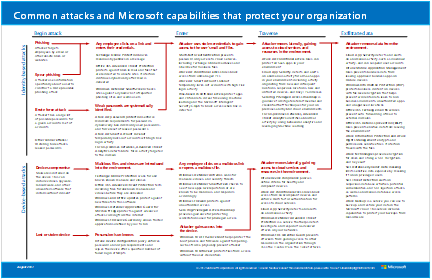
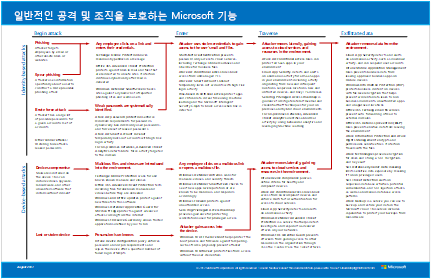
commit translated contents

Changed region(s): [[0.0301, 0.0286, 0.8426, 0.0857]]

diff --git a/Enterprise/TOC.md b/Enterprise/TOC.md
@@ -12,77 +12,90 @@
 ### [Microsoft SaaS (Office 365)에 대한 하이브리드 클라우드 시나리오](hybrid-cloud-scenarios-for-microsoft-saas-office-365.md)
 ### [Azure PaaS에 대한 하이브리드 클라우드 시나리오](hybrid-cloud-scenarios-for-azure-paas.md)
 ### [Azure IaaS에 대한 하이브리드 클라우드 시나리오](hybrid-cloud-scenarios-for-azure-iaas.md)
-## [Microsoft 클라우드 제품용 구독, 라이선스, 계정 및 테넌트](subscriptions-licenses-accounts-and-tenants-for-microsoft-cloud-offerings.md)
 ## [Exchange, SharePoint, 비즈니스용 Skype 및 Lync에 대한 아키텍처 모델](architectural-models-for-sharepoint-exchange-skype-for-business-and-lync.md)
 
 # [Office 365 계획](get-your-organization-ready-for-office-365.md)
-## [구독, 라이선스 및 테넌트](subscriptions-licenses-accounts-and-tenants-for-microsoft-cloud-offerings.md)
-### [디렉터리 동기화 계획](plan-for-directory-synchronization.md)
-### [Office 365 서비스에 연결되는 네트워크 장치 계획](plan-for-network-devices.md)
+
+## Office 365 테넌트
+### [구독, 라이선스 및 테넌트](subscriptions-licenses-accounts-and-tenants-for-microsoft-cloud-offerings.md)
+
+### 네트워크 계획
+#### [Office 365에 대한 네트워크 연결](network-connectivity.md)
+#### [Office 365 서비스에 연결되는 네트워크 장치 계획](plan-for-network-devices.md)
+#### [Office 365의 네트워크 및 마이그레이션 계획](network-and-migration-planning.md)
+
+### ID 계획D
+#### [Id 모델](about-office-365-identity.md)
+#### [하이브리드 ID](plan-for-directory-synchronization.md)
+
 ### [Office 365용 타사 SSL 인증서 계획](plan-for-third-party-ssl-certificates.md)
-### [Office 365 ID 및 Azure Active Directory 이해](about-office-365-identity.md)
-### 
-  [MDM과 Intune 중에서 선택](https://docs.microsoft.com/ko-KR/office365/securitycompliance/choose-between-mdm-and-intune)
-### [Office 365의 네트워크 및 마이그레이션 계획](network-and-migration-planning.md)
-### [Office 365에 대한 네트워크 연결](network-connectivity.md)
 ### [Office 365 서비스 배포 관리자](deployment-advisors-for-office-365.md)
-### [Office 365 관리자를 위한 통합된 앱 및 Azure AD](integrated-apps-and-azure-ads.md)
-## [Office 365 통합](office-365-integration.md)
-### [Office 365와 Azure 통합](azure-integration.md)
-### [Office 365용 Azure ExpressRoute](azure-expressroute.md)
-### [최신 인증이 Office 2013 및 Office 2016 클라이언트 앱에 작동하는 방식](modern-auth-for-office-2013-and-2016.md)
-### [Office 365 테넌트 간 공동 작업](office-365-inter-tenant-collaboration.md)
+### [통합 앱 및 Azure AD](integrated-apps-and-azure-ads.md)
+
+### Office 365 통합
+#### [온-프레미스와 통합](office-365-integration.md)
+#### [Azure 통합](azure-integration.md)
+#### [Azure ExpressRoute](azure-expressroute.md)
+#### [최신 인증이 Office 2013 및 Office 2016 클라이언트 앱에 작동하는 방식](modern-auth-for-office-2013-and-2016.md)
+#### [테넌트 간 공동 작업](office-365-inter-tenant-collaboration.md)
+
 ## Office 365 클라이언트 지원
 ### [인증서 기반 인증](office-365-client-support-certificate-based-authentication.md)
 ### [조건부 액세스](office-365-client-support-conditional-access.md)
+### [MDM과 Intune 중에서 선택](https://docs.microsoft.com/ko-KR/office365/securitycompliance/choose-between-mdm-and-intune)
 ### [모바일 응용 프로그램 관리](office-365-client-support-mobile-application-management.md)
 ### [최신 인증](office-365-client-support-modern-authentication.md)
 ### [Single Sign-On](office-365-client-support-single-sign-on.md)
-## 하이브리드 옵션
-### [하이브리드 최신 인증과 비즈니스용 Skype 서버 및 Exchange Server에 대한 필수 구성 요소](hybrid-modern-auth-overview.md)
-### [하이브리드 최신 인증을 사용하도록 Exchange Server 온-프레미스를 구성하는 방법](configure-exchange-server-for-hybrid-modern-authentication.md)
-### [하이브리드 최신 인증을 사용하도록 비즈니스용 Skype 온-프레미스를 구성하는 방법](https://docs.microsoft.com/skypeforbusiness/manage/authentication/use-adal)
-### [비즈니스용 Skype 및 Exchange에서 하이브리드 최신 인증 제거 또는 사용 안 함](remove-or-disable-hybrid-modern-authentication-from-skype-for-business-and-excha.md)
-## [Office 업그레이드](plan-upgrade-previous-versions-office.md)
-### [Office 2010](upgrade-from-office-2010-servers-and-products.md)
-#### [Office 2010 데스크톱](https://docs.microsoft.com/DeployOffice/office-2010-end-support-roadmap)
-#### [Exchange 2010](exchange-2010-end-of-support.md)
-#### [SharePoint 2010](upgrade-from-sharepoint-2010.md)
-#### [Lync Server 2010](https://docs.microsoft.com/skypeforbusiness/plan-your-deployment/upgrade)
-#### [Project Server 2010](project-server-2010-end-of-support.md)
-### [Office 2007](upgrade-from-office-2007-servers-and-products.md)
+
+## 하이브리드 최신 인증
+### [비즈니스용 Skype Server 및 Exchange Server의 필수 구성 요소](hybrid-modern-auth-overview.md)
+### [Exchange 구성](configure-exchange-server-for-hybrid-modern-authentication.md)
+### [비즈니스용 Skype Online 구성](https://docs.microsoft.com/skypeforbusiness/manage/authentication/use-adal)
+### [비즈니스용 및 Exchange Skype를 제거하거나 사용 중지](remove-or-disable-hybrid-modern-authentication-from-skype-for-business-and-excha.md)
+
+## Office 클라이언트 및 서버
+### [업그레이드 계획](plan-upgrade-previous-versions-office.md)
+### Office 2007
+#### [Office 2007 서버 및 클라이언트에서 업그레이드](upgrade-from-office-2007-servers-and-products.md)
 #### [Office 2007 데스크톱](https://docs.microsoft.com/DeployOffice/office-2007-end-support-roadmap)
 #### [Exchange 2007](exchange-2007-end-of-support.md)
 #### [SharePoint 2007](sharepoint-2007-end-of-support.md)
 #### [Office Communications Server](https://docs.microsoft.com/skypeforbusiness/plan-your-deployment/upgrade)
 #### [PerformancePoint Server 2007](pps-2007-end-of-support.md)
 #### [Project Server 2007](project-server-2007-end-of-support.md)
+### Office 2010
+#### [Office 2010 서버 및 클라이언트에서 업그레이드](upgrade-from-office-2010-servers-and-products.md)
+#### [Office 2010 데스크톱](https://docs.microsoft.com/DeployOffice/office-2010-end-support-roadmap)
+#### [Exchange 2010](exchange-2010-end-of-support.md)
+#### [SharePoint 2010](upgrade-from-sharepoint-2010.md)
+#### [Lync Server 2010](https://docs.microsoft.com/skypeforbusiness/plan-your-deployment/upgrade)
+#### [Project Server 2010](project-server-2010-end-of-support.md)
 
-# [Office 365 테스트](cloud-adoption-test-lab-guides-tlgs.md)
+# Office 365 테스트
+## [클라우드 채택 테스트 랩 가이드](cloud-adoption-test-lab-guides-tlgs.md)
 ## [기본 구성 개발/테스트 환경](base-configuration-dev-test-environment.md)
 ## [Office 365 개발/테스트 환경](office-365-dev-test-environment.md)
 ### [디렉터리 동기화](dirsync-for-your-office-365-dev-test-environment.md)
 ### [다단계 인증](multi-factor-authentication-for-your-office-365-dev-test-environment.md)
 ### [페더레이션 ID](federated-identity-for-your-office-365-dev-test-environment.md)
-### [Cloud App Security](cloud-app-security-for-your-office-365-dev-test-environment.md)
 ### [Advanced Threat Protection](advanced-threat-protection-for-your-office-365-dev-test-environment.md)
 ### [고급 eDiscovery](advanced-ediscovery-for-your-office-365-dev-test-environment.md)
 ### [중요한 파일 보호](sensitive-file-protection-in-the-office-365-dev-test-environment.md)
 ### [데이터 분류 및 레이블](data-classification-and-labeling-in-the-office-365-dev-test-environment.md)
 ## [시뮬레이트된 Azure의 크로스-프레미스 가상 네트워크](simulated-cross-premises-virtual-network-in-azure.md)
 
-# Office 365 배포
-## [FastTrack](https://www.microsoft.com/fasttrack/microsoft-365/office-365)
-## [조직을 위해 Office 365 Enterprise 배포](setup-overview-for-enterprises.md)
-### [Office 365 배포 계획 검사 목록](deployment-planning-checklist.md)
-### [Office 365에 대한 보안 모범 사례](https://docs.microsoft.com/office365/securitycompliance/security-best-practices)
-## [네트워크 설정](set-up-network-for-office-365.md)
+# [Office 365 Enterprise 배포](setup-overview-for-enterprises.md)
+
+## 1. 네트워크 설정
+### [엔터프라이즈 네트워크 설정](set-up-network-for-office-365.md)
+### [도메인](https://support.office.com/article/6383f56d-3d09-4dcb-9b41-b5f5a5efd611)
 ### [Office 365 네트워킹 연결 개요](office-365-networking-overview.md)
 ### [Office 365 네트워크 연결 원칙](office-365-network-connectivity-principles.md)
 ### [Office 365의 네트워크 계획 및 성능 조정](network-planning-and-performance.md)
 ### [Office 365에 대한 네트워크 연결](network-connectivity.md)
 ### [Office 365 네트워킹 파트너 프로그램](office-365-networking-partner-program.md)
-### [Office 365 IP 주소 및 URL](office-365-endpoints.md)
+### Office 365 IP 주소 및 URL
+#### [Office 365 엔드포인트](office-365-endpoints.md)
 #### [Office 365 끝점 관리](managing-office-365-endpoints.md)
 #### [전 세계 끝점](urls-and-ip-address-ranges.md)
 #### [미국 정부 DoD 끝점](office-365-u-s-government-dod-endpoints.md)
@@ -96,106 +109,130 @@
 ### [Office 365 서비스의 IPv6 지원](ipv6-support.md)
 ### [NAT 지원(Office 365)](nat-support-with-office-365.md)
 ### Office 365용 ExpressRoute를 사용한 작업
-#### [Office 365용 Azure ExpressRoute](azure-expressroute.md)
+#### [Office 365용 ExpressRoute](azure-expressroute.md)
 #### [Office 365용 ExpressRoute 구현](implementing-expressroute.md)
 #### [Office 365용 ExpressRoute를 사용한 네트워크 계획](network-planning-with-expressroute.md)
 #### [Office 365용 ExpressRoute를 사용한 라우팅](routing-with-expressroute.md)
-## 구독 설정
-### [디렉터리 동기화를 통해 사용자를 Office 365에 프로비전하기 위한 준비](prepare-for-directory-synchronization.md)
-### [IdFix 도구를 사용하여 Office 365와의 동기화를 위한 디렉터리 특성 준비](prepare-directory-attributes-for-synch-with-idfix.md)
-### [IdFix 도구 설치 및 실행](install-and-run-idfix.md)
-### [IdFix 제외 및 지원 개체/특성](idfix-excluded-and-supported-objects-and-attributes.md)
-### [IdFix 트랜잭션 로그](idfix-transaction-log.md)
-### [Office 365의 디렉터리 동기화 설정](set-up-directory-synchronization.md)
-### [Office 365 전역 관리자 계정 보호](protect-your-global-administrator-accounts.md)
-### [Office 365 관리 센터에서 Azure 권한 관리 활성화](activate-rms-in-office-365.md)
-### [도메인](https://support.office.com/article/6383f56d-3d09-4dcb-9b41-b5f5a5efd611)
-### [Office 365에서 릴리스 옵션 구성](https://support.office.com/article/365-3b3adfa4-1777-4ff0-b606-fb8732101f47)
-## [Office 365 Enterprise 서비스 및 응용 프로그램 구성](configure-services-and-applications.md)
+
+## 2. ID 설정
+### [전역 관리자 계정 보호](protect-your-global-administrator-accounts.md)
+### [클라우드 전용 ID](cloud-only-identities.md)
+### 하이브리드 ID
+#### [디렉터리 동기화 준비](prepare-for-directory-synchronization.md)
+#### IdFix 도구 실행
+##### [IdFix 도구로 디렉터리 특성 준비](prepare-directory-attributes-for-synch-with-idfix.md)
+##### [IdFix 도구 설치 및 실행](install-and-run-idfix.md)
+##### [IdFix 제외 및 지원 개체/특성](idfix-excluded-and-supported-objects-and-attributes.md)
+##### [IdFix 트랜잭션 로그](idfix-transaction-log.md)
+#### [디렉터리 동기화 설정](set-up-directory-synchronization.md)
+### [사용자 계정에 라이선스 할당](assign-licenses-to-user-accounts.md)
+
+## [3. 보안 기능 구현](https://docs.microsoft.com/office365/securitycompliance/security-best-practices)
+
+## 4. 클라이언트 소프트웨어 배포
+### [Office 365 ProPlus 배포](https://docs.microsoft.com/DeployOffice/deployment-guide-for-office-365-proplus)
+### [비즈니스용 Skype 클라이언트 배포](https://docs.microsoft.com/skypeforbusiness/set-up-skype-for-business-online/deploy-the-skype-for-business-client-in-office-365)
+### [모바일 앱 배포 및 관리](https://support.office.com/article/d35db652-629d-4087-8dc0-1e0ed922307c)
+
+## [5. 모바일 장치 관리 설정](https://support.office.com/article/set-up-mobile-device-management-mdm-in-office-365-dd892318-bc44-4eb1-af00-9db5430be3cd)
+
+## 6. 서비스 및 응용 프로그램 구성
+### [준비하기](configure-services-and-applications.md)
 ### [Office 365로 데이터 마이그레이션](migrate-data-to-office-365.md)
 ### [Exchange Online](https://docs.microsoft.com/Exchange/exchange-online)
 ### [SharePoint Online](https://docs.microsoft.com/sharepoint/sharepoint-online)
 ### [비즈니스용 Skype](https://docs.microsoft.com/SkypeForBusiness/skype-for-business-online)
 ### [Microsoft Teams](https://docs.microsoft.com/MicrosoftTeams/Teams-overview)
 ### [Yammer](https://support.office.com/article/e1464355-1f97-49ac-b2aa-dd320b179dbe)
-## [Intune을 사용하는 장치 관리 구성](https://docs.microsoft.com/intune/setup-steps)
-## 응용 프로그램 배포
-### [Office 365 ProPlus 배포](https://docs.microsoft.com/DeployOffice/deployment-guide-for-office-365-proplus)
-### [비즈니스용 Skype 클라이언트 배포](https://docs.microsoft.com/skypeforbusiness/set-up-skype-for-business-online/deploy-the-skype-for-business-client-in-office-365)
-### [모바일 앱 배포 및 관리](https://support.office.com/article/d35db652-629d-4087-8dc0-1e0ed922307c)
-## [사용자 교육](https://support.office.com/article/396b8d9e-e118-42d0-8a0d-87d1f2f055fb)
+### [Azure 권한 관리](activate-rms-in-office-365.md)
+### [릴리스 옵션 구성](https://support.office.com/article/365-3b3adfa4-1777-4ff0-b606-fb8732101f47)
 
-## [Office 365 Multi-Geo](office-365-multi-geo.md)
-### [OneDrive 및 SharePoint Multi-Geo](multi-geo-capabilities-in-onedrive-and-sharepoint-online-in-office-365.md)
-### [Exchange Multi-Geo](multi-geo-capabilities-in-exchange-online.md)
-### [Multi-Geo 플랜](plan-for-multi-geo.md)
-#### [관리 환경](administering-a-multi-geo-environment.md)
-#### [Multi-Geo 환경의 사용자 작업 환경](multi-geo-user-experience.md)
-### [Multi-Geo 구성](multi-geo-tenant-configuration.md)
-#### [기본 설정 데이터 위치 구성](/azure/active-directory/hybrid/how-to-connect-sync-feature-preferreddatalocation?toc=/Office365/Enterprise/toc.json&bc=/office365/enterprise/breadcrumb/toc.json)
-#### [검색 구성](configure-search-for-multi-geo.md)
-### Multi-Geo 환경 관리
-#### [SharePoint 할당량 관리](sharepoint-multi-geo-storage-quota.md)
-#### [OneDrive 사이트 이동](move-onedrive-between-geo-locations.md)
-#### [SharePoint 사이트 이동](move-sharepoint-between-geo-locations.md).
-#### [지역 관리자 추가 또는 제거](add-a-sharepoint-geo-admin.md)
-#### [지리적 위치로 콘텐츠 제한](restrict-content-to-geo-location.md)
-#### [Office 365 Multi-Geo eDiscovery 구성](multi-geo-ediscovery-configuration.md)
-#### [특정 PDL로 그룹 만들기](multi-geo-add-group-with-pdl.md)
-#### [지리적 위치 삭제](delete-a-geo-location.md)
-#### [위성 지리적 위치에서 SharePoint Multi-Geo 사용](enabling-SP-multigeo-satellite-geolocation.md)
-#### [Exchange Multi-Geo 관리](administering-exchange-online-multi-geo.md)
+## [7. 사용자 교육](https://docs.microsoft.com/office365/admin/admin-overview/get-started-with-office-365#training-resources-for-your-users)
 
-## [새 Office 365 데이터 센터 지역으로 이동](moving-data-to-new-datacenter-geos.md)
-### [데이터 이동을 요청하는 방법](request-your-data-move.md)
-### [데이터 이동 도중 및 이후](during-and-after-your-data-move.md)
-### [데이터 이동 일반 FAQ](data-move-faq.md)
-## 하이브리드 솔루션
-### [Azure Active Directory를 사용하여 SharePoint Server 2016 인증](using-azure-ad-for-sharepoint-server-authentication.md)
-### [Microsoft Azure에서 Office 365 디렉터리 동기화 배포](deploy-office-365-directory-synchronization-dirsync-in-microsoft-azure.md)
-### [온-프레미스 네트워크를 Microsoft Azure Virtual Network에 연결](connect-an-on-premises-network-to-a-microsoft-azure-virtual-network.md)
-### [Azure에서 Office 365용 고가용성 페더레이션 인증 배포](deploy-high-availability-federated-authentication-for-office-365-in-azure.md)
-#### [고가용성 페더레이션 인증 1단계: Azure 구성](high-availability-federated-authentication-phase-1-configure-azure.md)
-#### [고가용성 페더레이션 인증 2단계: 도메인 컨트롤러 구성](high-availability-federated-authentication-phase-2-configure-domain-controllers.md)
-#### [고가용성 페더레이션 인증 3단계: AD FS 서버 구성](high-availability-federated-authentication-phase-3-configure-ad-fs-servers.md)
-#### [고가용성 페더레이션 인증 4단계: 웹 응용 프로그램 프록시 구성](high-availability-federated-authentication-phase-4-configure-web-application-pro.md)
-#### [고가용성 페더레이션 인증 5단계: Office 365에 대해 페더레이션 인증 구성](high-availability-federated-authentication-phase-5-configure-federated-authentic.md)
+## 고급 배포
+
+### [Office 365 Multi-Geo](office-365-multi-geo.md)
+#### [OneDrive 및 SharePoint Multi-Geo](multi-geo-capabilities-in-onedrive-and-sharepoint-online-in-office-365.md)
+#### [Exchange Multi-Geo](multi-geo-capabilities-in-exchange-online.md)
+#### [Multi-Geo 플랜](plan-for-multi-geo.md)
+##### [관리 환경](administering-a-multi-geo-environment.md)
+##### [Multi-Geo 환경의 사용자 작업 환경](multi-geo-user-experience.md)
+#### [Multi-Geo 구성](multi-geo-tenant-configuration.md)
+##### [기본 설정 데이터 위치 구성](/azure/active-directory/hybrid/how-to-connect-sync-feature-preferreddatalocation?toc=/Office365/Enterprise/toc.json&bc=/office365/enterprise/breadcrumb/toc.json)
+##### [검색 구성](configure-search-for-multi-geo.md)
+#### Multi-Geo 환경 관리
+##### [SharePoint 할당량 관리](sharepoint-multi-geo-storage-quota.md)
+##### [OneDrive 사이트 이동](move-onedrive-between-geo-locations.md)
+##### [SharePoint 사이트 이동](move-sharepoint-between-geo-locations.md).
+##### [지역 관리자 추가 또는 제거](add-a-sharepoint-geo-admin.md)
+##### [지리적 위치로 콘텐츠 제한](restrict-content-to-geo-location.md)
+##### [Office 365 Multi-Geo eDiscovery 구성](multi-geo-ediscovery-configuration.md)
+##### [특정 PDL로 그룹 만들기](multi-geo-add-group-with-pdl.md)
+##### [지리적 위치 삭제](delete-a-geo-location.md)
+##### [위성 지리적 위치에서 SharePoint Multi-Geo 사용](enabling-SP-multigeo-satellite-geolocation.md)
+##### [Exchange Multi-Geo 관리](administering-exchange-online-multi-geo.md)
+
+#### [새 Office 365 데이터 센터 지역으로 이동](moving-data-to-new-datacenter-geos.md)
+##### [데이터 이동을 요청하는 방법](request-your-data-move.md)
+##### [데이터 이동 도중 및 이후](during-and-after-your-data-move.md)
+##### [데이터 이동 일반 FAQ](data-move-faq.md)
+
+### 하이브리드 솔루션
+#### [Azure Active Directory를 사용하여 SharePoint Server 2016 인증](using-azure-ad-for-sharepoint-server-authentication.md)
+#### [온-프레미스 네트워크를 Azure Virtual Network에 연결](connect-an-on-premises-network-to-a-microsoft-azure-virtual-network.md)
+#### [Azure IaaS에서 디렉터리 비동기화 서버 배포](deploy-office-365-directory-synchronization-dirsync-in-microsoft-azure.md)
+#### [Azure에서 Office 365용 고가용성 페더레이션 인증 배포](deploy-high-availability-federated-authentication-for-office-365-in-azure.md)
+##### [고가용성 페더레이션 인증 1단계: Azure 구성](high-availability-federated-authentication-phase-1-configure-azure.md)
+##### [고가용성 페더레이션 인증 2단계: 도메인 컨트롤러 구성](high-availability-federated-authentication-phase-2-configure-domain-controllers.md)
+##### [고가용성 페더레이션 인증 3단계: AD FS 서버 구성](high-availability-federated-authentication-phase-3-configure-ad-fs-servers.md)
+##### [고가용성 페더레이션 인증 4단계: 웹 응용 프로그램 프록시 구성](high-availability-federated-authentication-phase-4-configure-web-application-pro.md)
+##### [고가용성 페더레이션 인증 5단계: Office 365에 대해 페더레이션 인증 구성](high-availability-federated-authentication-phase-5-configure-federated-authentic.md)
 
 # Office 365 관리
-## [서비스 상태](view-service-health.md)
+
+## 네트워크
+### [클라이언트 연결](client-connectivity.md)
 ### [연결 모니터링](monitor-connectivity.md)
-### 
-  [지원 옵션](https://support.office.com/ko-KR/article/Contact-support-for-business-products-Admin-Help-32a17ca7-6fa0-4870-8a8d-e25ba4ccfd4b)
-## 
-  [관리 도구](https://support.office.com/ko-KR/article/Management-tools-for-Office-365-8e715d2a-c20e-492b-a9cb-60f3708f9241)
-### [Office 365 계정 관리 도구](manage-office-365-accounts.md)
-### [Office 365에 여러 사용자를 동시에 추가 - 관리자 도움말](add-several-users-at-the-same-time.md)
-### [사용자 사서함에서 지운 편지함 복구 - 관리자 도움말](recover-deleted-items-in-a-mailbox.md)
-## 워크로드 관리
+
+## 디렉터리 동기화
+### [디렉터리 동기화 상태 보기](view-directory-synchronization-status.md)
+### [디렉터리 동기화 오류 확인](identify-directory-synchronization-errors.md)
+### [디렉터리 동기화 문제 해결](fix-problems-with-directory-synchronization.md)
+### [디렉터리 동기화 끄기](turn-off-directory-synchronization.md)
+
+## 사용자
+### [Office 365 관리자 도움말 센터](https://support.office.com/ko-KR/article/Management-tools-for-Office-365-8e715d2a-c20e-492b-a9cb-60f3708f9241)
+### [사용자 계정 관리 도구](manage-office-365-accounts.md)
+### [동시에 여러 사용자 추가](add-several-users-at-the-same-time.md)
+### [사용자의 사서함에서 삭제된 항목 복구 ](recover-deleted-items-in-a-mailbox.md)
+
+## 장치
+### [MDM과 Intune 중에서 선택](https://support.office.com/article/c93d9ab9-efb2-4349-9b93-30c30562ee22)
+### [장치 액세스 설정 관리](https://support.office.com/article/28dd276b-beeb-4c5b-8b22-7551186127fe)
+
+## 워크로드
 ### [Exchange Online](https://docs.microsoft.com/Exchange/exchange-online)
 ### [SharePoint Online](https://support.office.com/article/79eb0420-8cbd-4bcb-a90b-ddc7d3ab4b3a)
 ### [비즈니스용 Skype](https://docs.microsoft.com/SkypeForBusiness/skype-for-business-online)
 ### [Microsoft Teams](https://docs.microsoft.com//MicrosoftTeams/quality-of-experience-review-guide)
 ### [Yammer](https://support.office.com/article/e1464355-1f97-49ac-b2aa-dd320b179dbe)
-## [Office 365 성능 조정](tune-office-365-performance.md)
-### [초기 계획 및 성능 기록을 사용하여 Office 365 성능 조정](performance-tuning-using-baselines-and-history.md)
+
+## 서비스 상태
+### [확인 방법](view-service-health.md)
+### [지원 옵션](https://support.office.com/ko-KR/article/Contact-support-for-business-products-Admin-Help-32a17ca7-6fa0-4870-8a8d-e25ba4ccfd4b)
+
+## 성능
+### [Office 365 성능 조정](tune-office-365-performance.md)
+### [초기 계획 및 성능 기록을 사용하여 성능 조정](performance-tuning-using-baselines-and-history.md)
 ### [Exchange Online 성능 조정](tune-exchange-online-performance.md)
 ### [SharePoint Online 성능 조정](tune-sharepoint-online-performance.md)
 #### [SharePoint Online의 성능 조정 소개](introduction-to-performance-tuning-for-sharepoint-online.md)
 #### [SharePoint Online의 성능 문제 진단](diagnosing-performance-issues-with-sharepoint-online.md)
 ### [비즈니스용 Skype Online 성능 조정](tune-skype-for-business-online-performance.md)
 ### [Project Online 성능 조정](https://docs.microsoft.com/ProjectOnline/tune-project-online-performance)
-### [Office 365 성능 문제 해결 계획](performance-troubleshooting-plan.md)
-### [Office 365 연결에 대한 ExpressRoute 관리](managing-expressroute-for-connectivity.md)
-## 디렉터리 동기화
-### [Office 365에서 디렉터리 동기화 상태 보기](view-directory-synchronization-status.md)
-### [Office 365에서 디렉터리 동기화 오류 확인](identify-directory-synchronization-errors.md)
-### [Office 365의 디렉터리 동기화 문제 해결](fix-problems-with-directory-synchronization.md)
-### [Office 365의 디렉터리 동기화 해제](turn-off-directory-synchronization.md)
-## 장치 관리
-### [MDM과 Intune 중에서 선택](https://support.office.com/article/c93d9ab9-efb2-4349-9b93-30c30562ee22)
-### [장치 액세스 설정 관리](https://support.office.com/article/28dd276b-beeb-4c5b-8b22-7551186127fe)
-### [클라이언트 연결](client-connectivity.md)
+### [성능 문제 해결 계획](performance-troubleshooting-plan.md)
+### [ExpressRoute 관리](managing-expressroute-for-connectivity.md)
+
 # [Office 365 PowerShell](powershell/manage-office-365-with-office-365-powershell.md)
 # [보안 및 규정 준수](https://docs.microsoft.com/Office365/SecurityCompliance)
 # [Office 365 비즈니스 에디션](https://docs.microsoft.com/office365/admin/admin-home)
